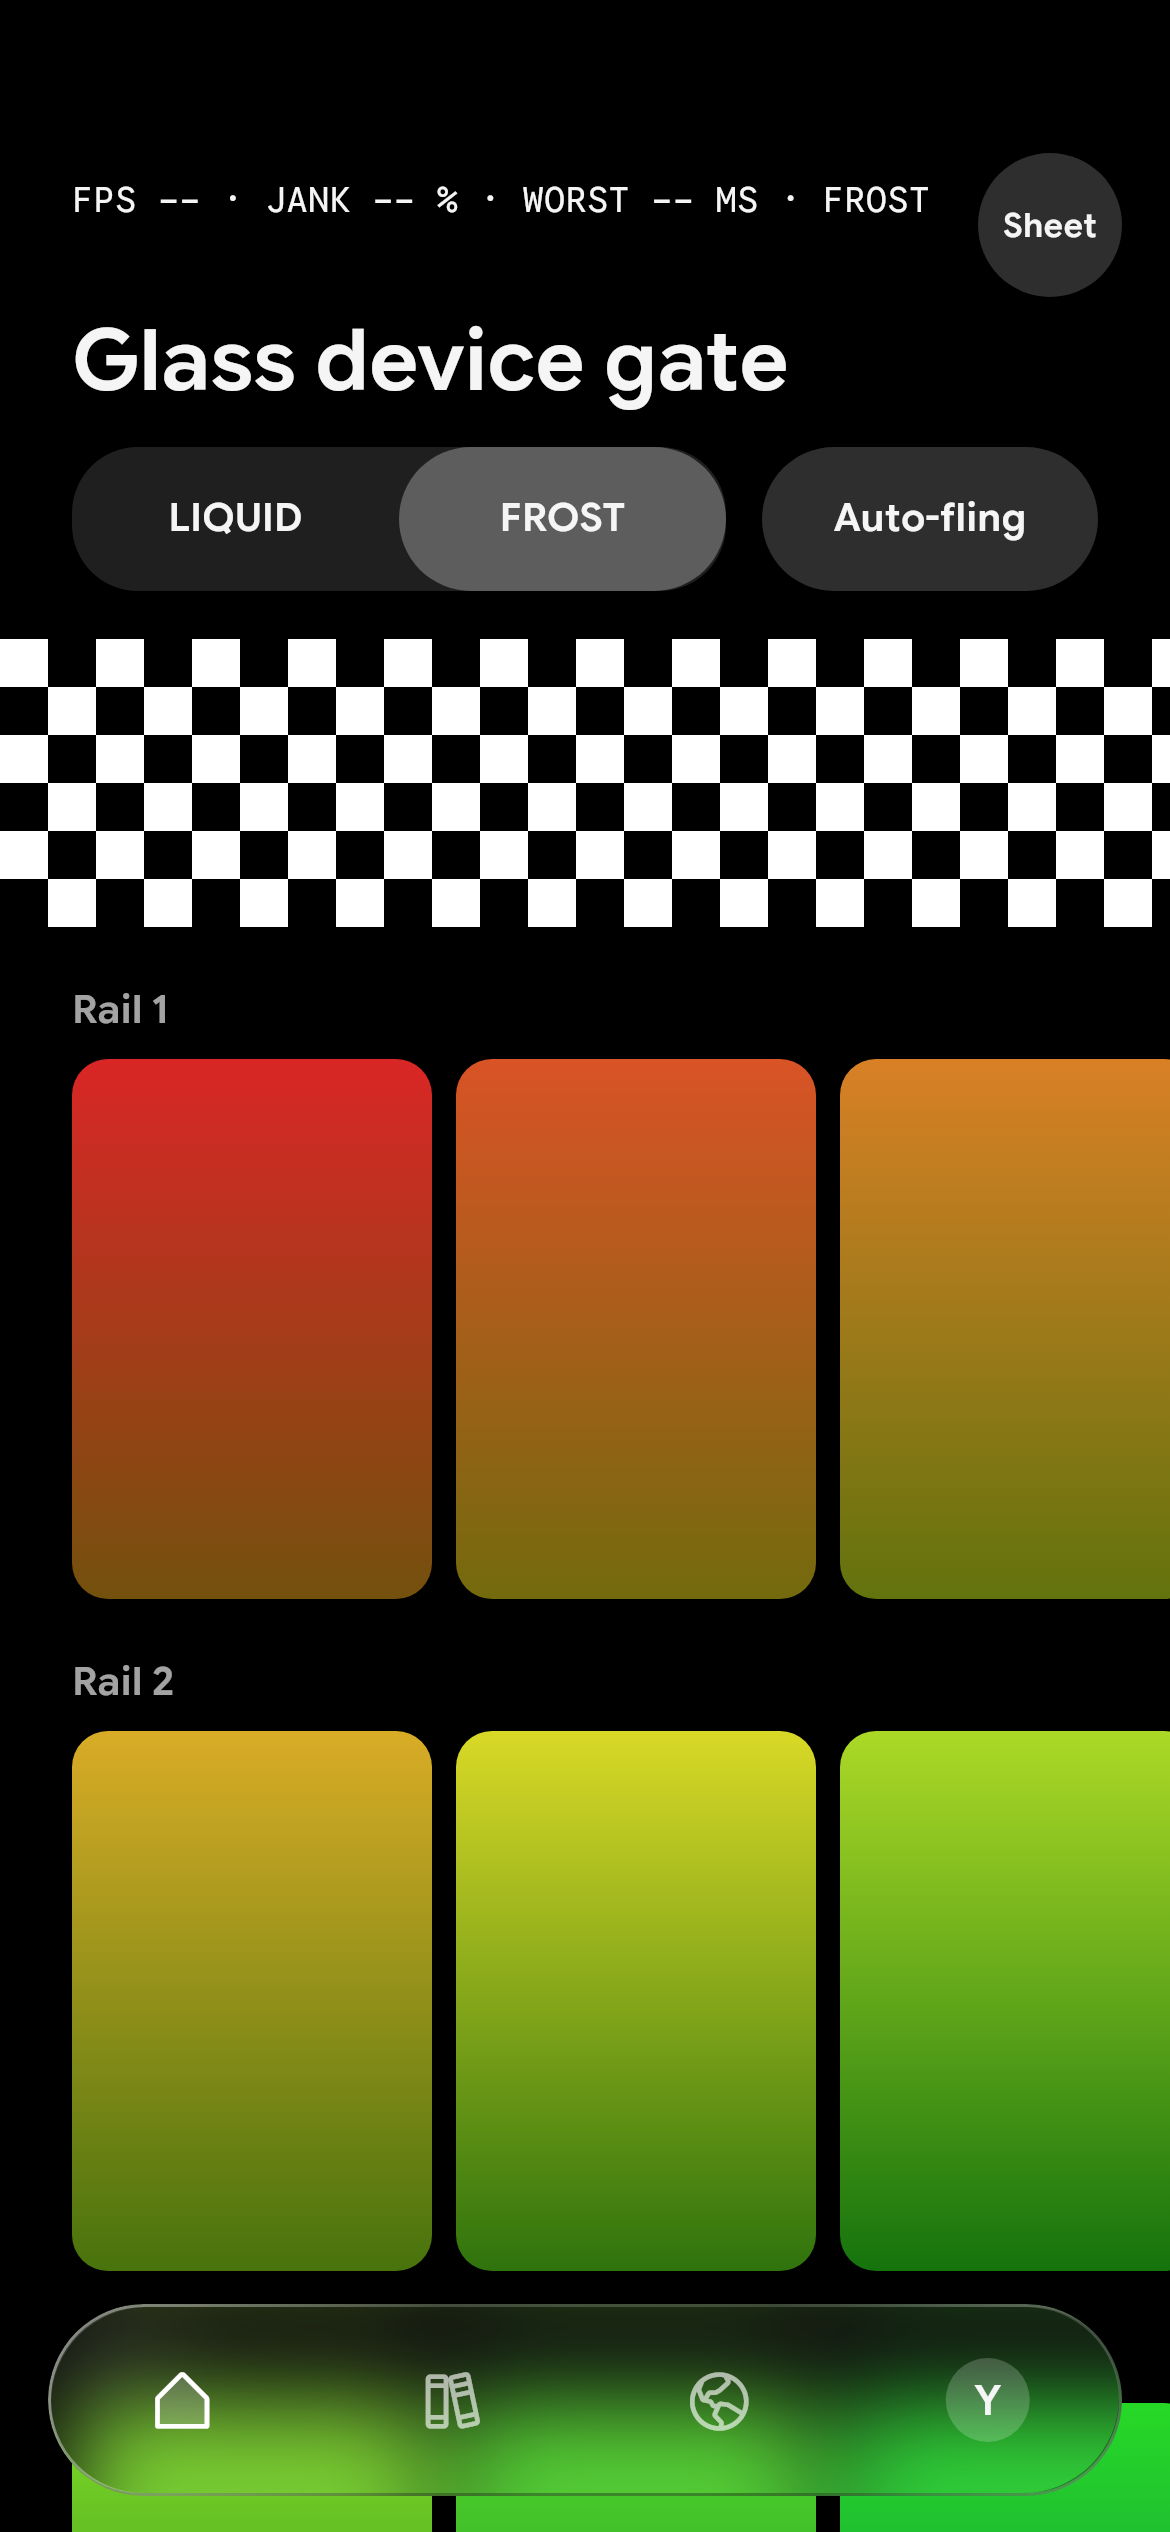
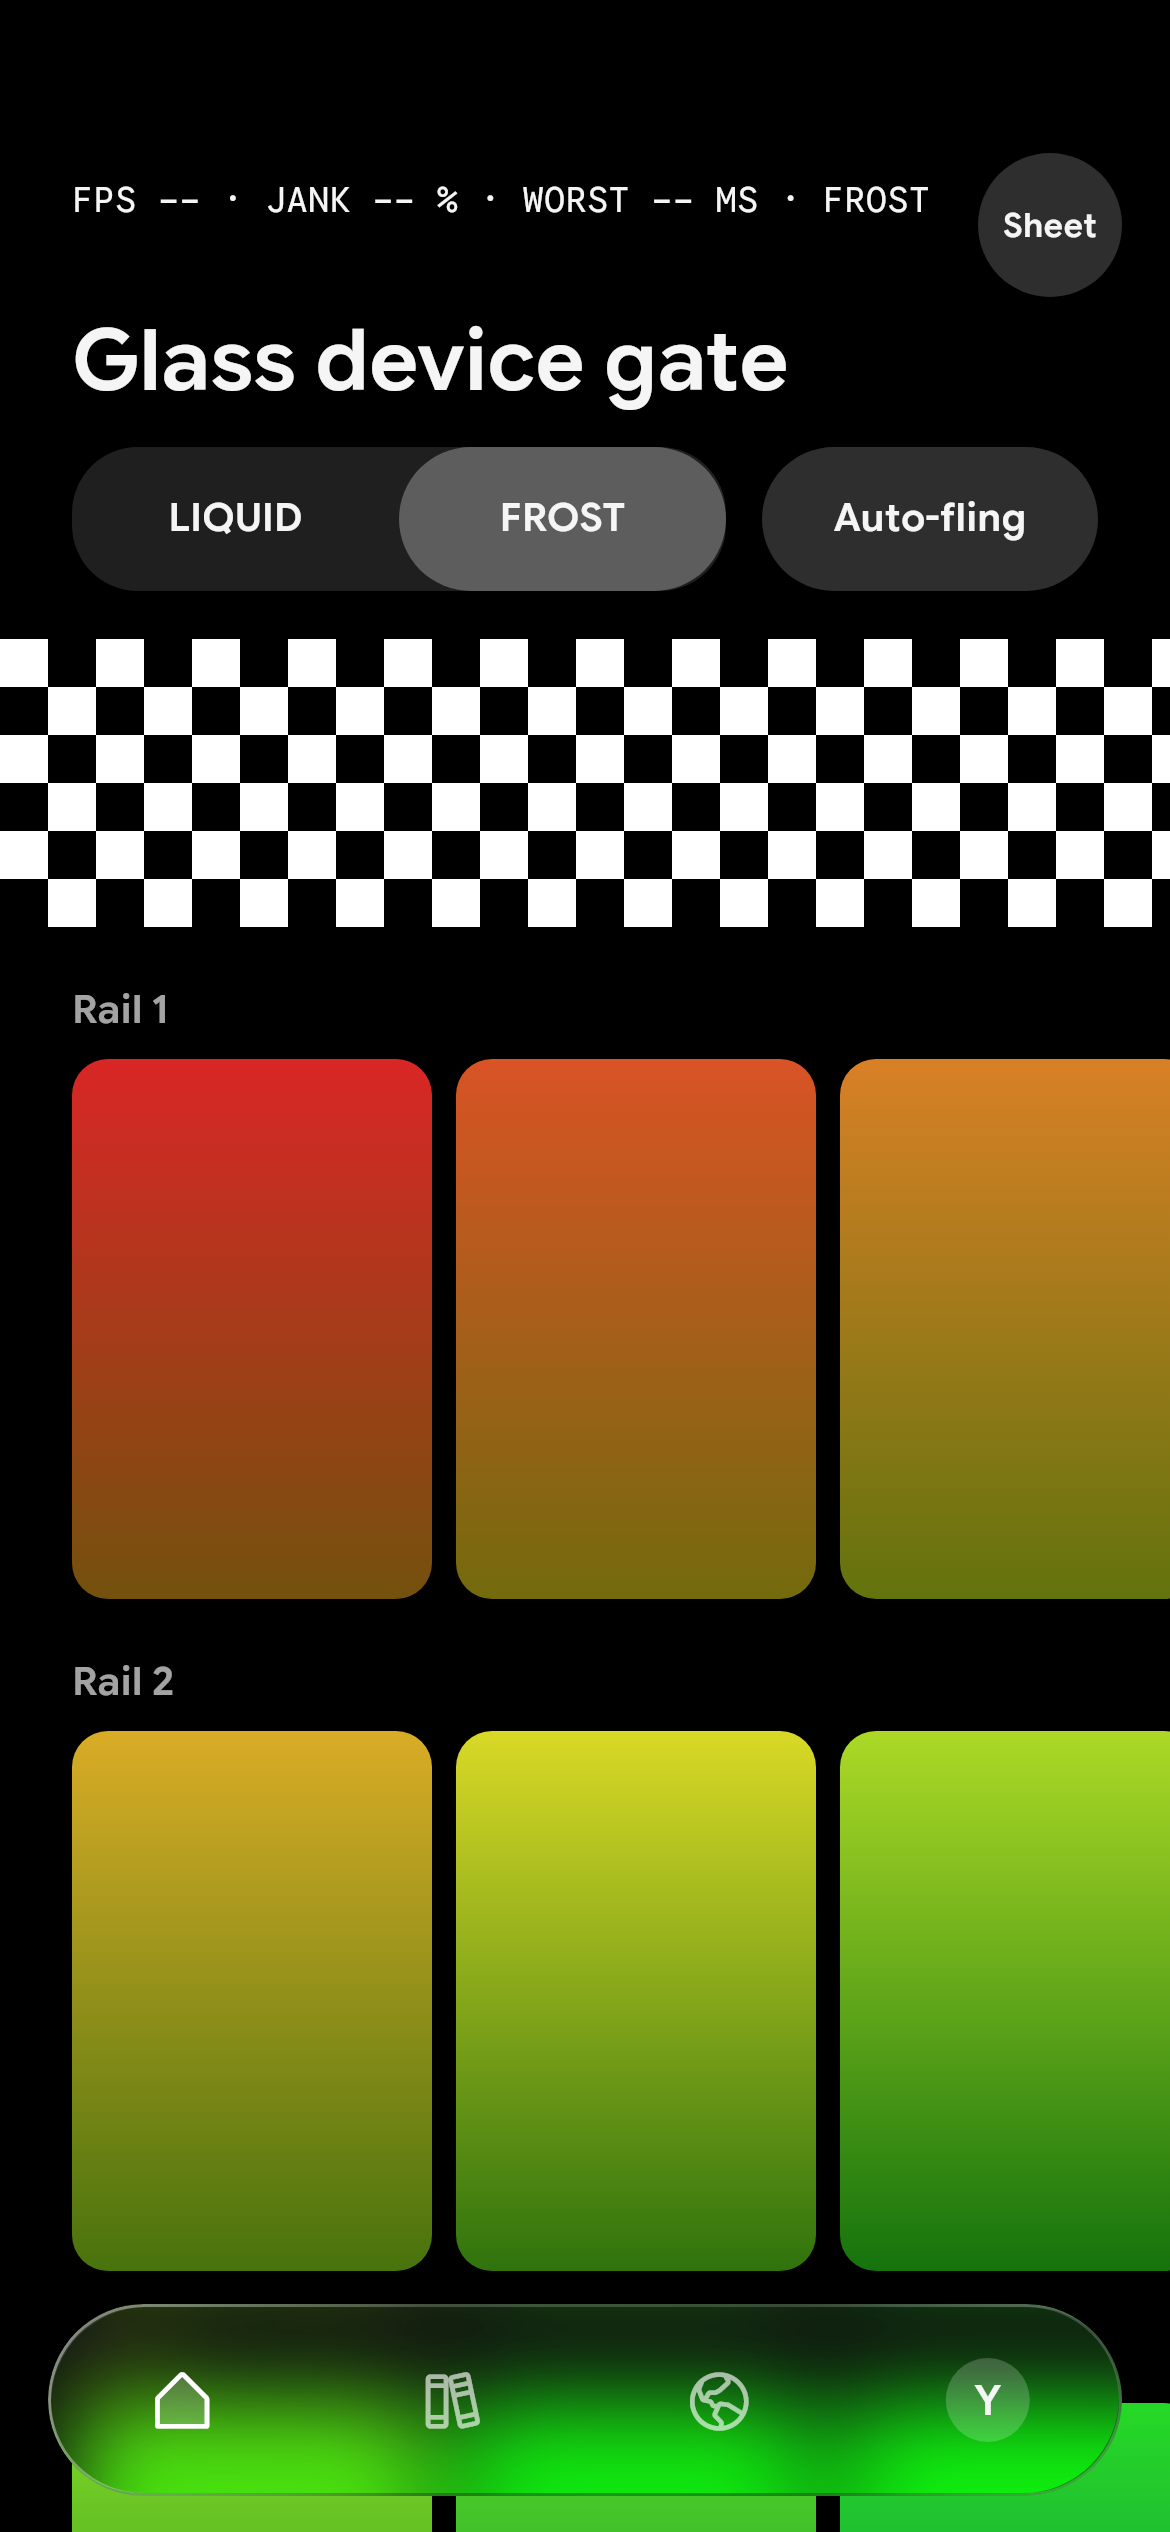
fix(mobile): FROST twin saturates 1.8 via ImageFilter.compose, regenerate proof

Changed region(s): [[0.0615, 0.936, 0.9538, 0.9984]]

diff --git a/mobile/lib/skins/glass/gate/glass_gate_screen.dart b/mobile/lib/skins/glass/gate/glass_gate_screen.dart
@@ -466,9 +466,16 @@ class _SheetRows extends StatelessWidget {
 // FROST twin: BackdropGroup + BackdropFilter.grouped with a painted rim.
 // ---------------------------------------------------------------------------
 
-/// Frosted panel of glass 2.4.2 `frosted` (+6 blur over the variant). Flutter has
-/// no backdrop saturate filter (`ImageFilter` offers blur, matrix, dilate, erode,
-/// compose and shader only), so saturation 1.8 is not applied here.
+/// Frosted panel of glass 2.4.2 `frosted` (+6 blur over the variant): blur, then
+/// saturate 1.8 via ImageFilter.compose with a luma-weighted ColorFilter.matrix.
+// Saturation 1.8 (CSS saturate(): luma 0.2126/0.7152/0.0722).
+const ColorFilter _saturate18 = ColorFilter.matrix(<double>[
+  0.2126 + 0.7874 * 1.8, 0.7152 - 0.7152 * 1.8, 0.0722 - 0.0722 * 1.8, 0, 0,
+  0.2126 - 0.2126 * 1.8, 0.7152 + 0.2848 * 1.8, 0.0722 - 0.0722 * 1.8, 0, 0,
+  0.2126 - 0.2126 * 1.8, 0.7152 - 0.7152 * 1.8, 0.0722 + 0.9278 * 1.8, 0, 0,
+  0, 0, 0, 1, 0,
+]);
+
 class _FrostPanel extends StatelessWidget {
   const _FrostPanel({required this.radius, required this.sigma, required this.fill, required this.specular, required this.child});
   final BorderRadius radius;
@@ -483,7 +490,7 @@ class _FrostPanel extends StatelessWidget {
     return ClipRRect(
       borderRadius: radius,
       child: BackdropFilter.grouped(
-        filter: ui.ImageFilter.blur(sigmaX: sigma, sigmaY: sigma),
+        filter: ui.ImageFilter.compose(outer: _saturate18, inner: ui.ImageFilter.blur(sigmaX: sigma, sigmaY: sigma)),
         child: CustomPaint(
           foregroundPainter: _RimPainter(radius: radius, specular: specular, stroke: px),
           child: ColoredBox(color: fill, child: child),

diff --git a/docs/redesign/proof/mobile-03/glass-gate.md b/docs/redesign/proof/mobile-03/glass-gate.md
@@ -32,6 +32,4 @@ Each run is one Auto-fling (10 s). Afterwards write down FPS, JANK and WORST fro
 
 On the iPhone, LIQUID passes when both LIQUID runs show FPS >= 115, JANK < 5 % and WORST < 16.7 ms with no visual fault. Otherwise the decision is FROST (flagship-only: no third option). Android results are recorded for glass 15.7 but do not decide.
 
-Known difference: the FROST twin has no saturate 1.8 (Flutter has no backdrop colour filter), so compare colour by eye only.
-
 Decision: awaiting the owner's device pass (mobile/25 must not start before this line reads LIQUID or FROST)
